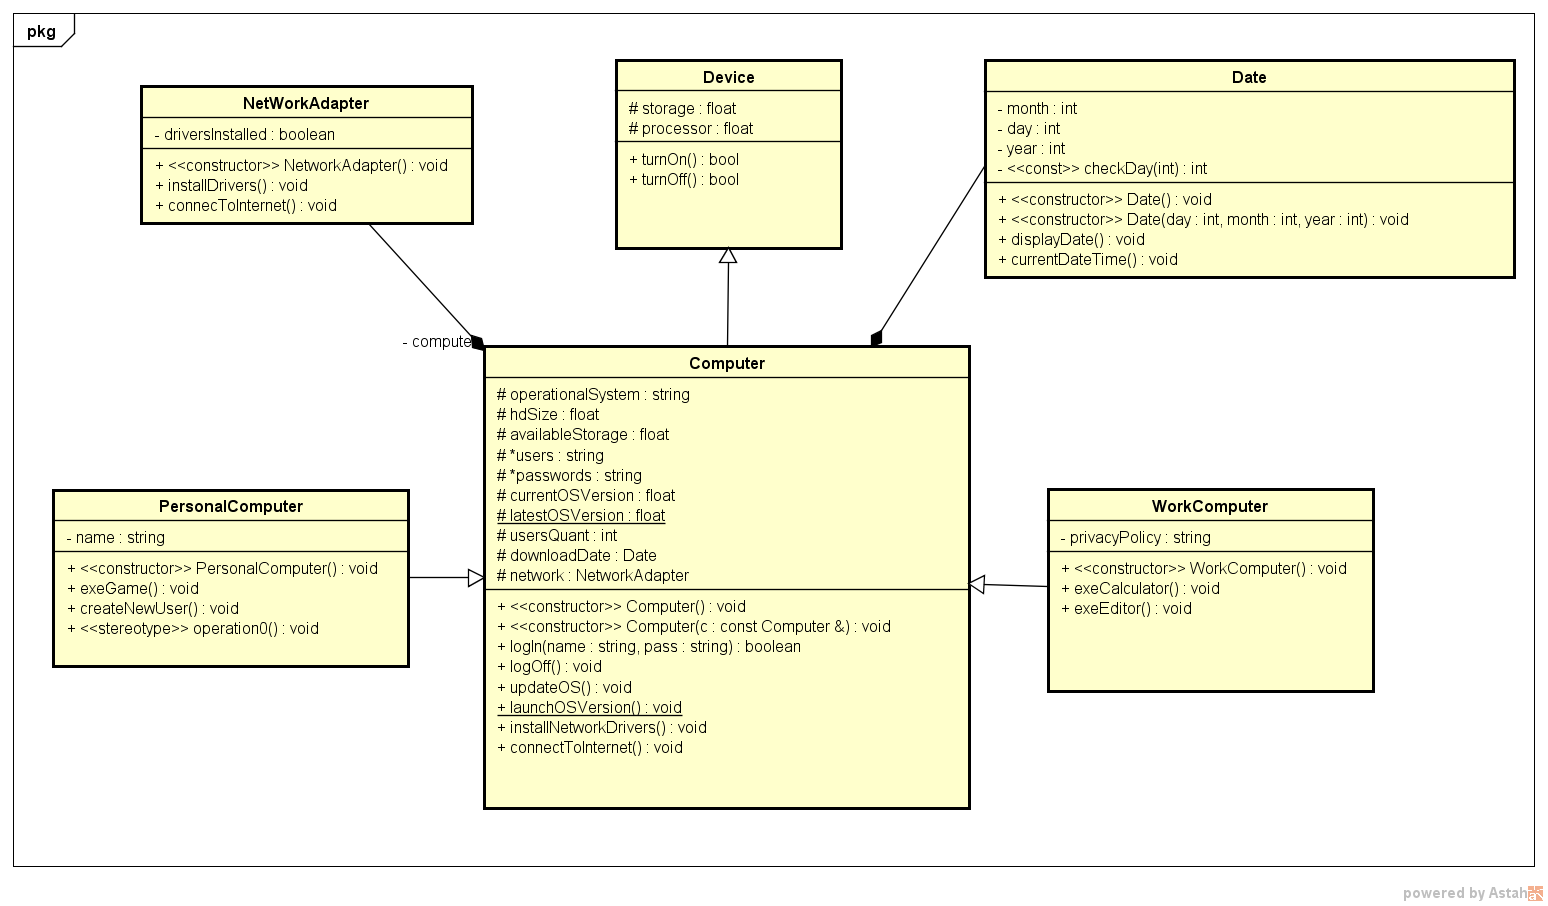
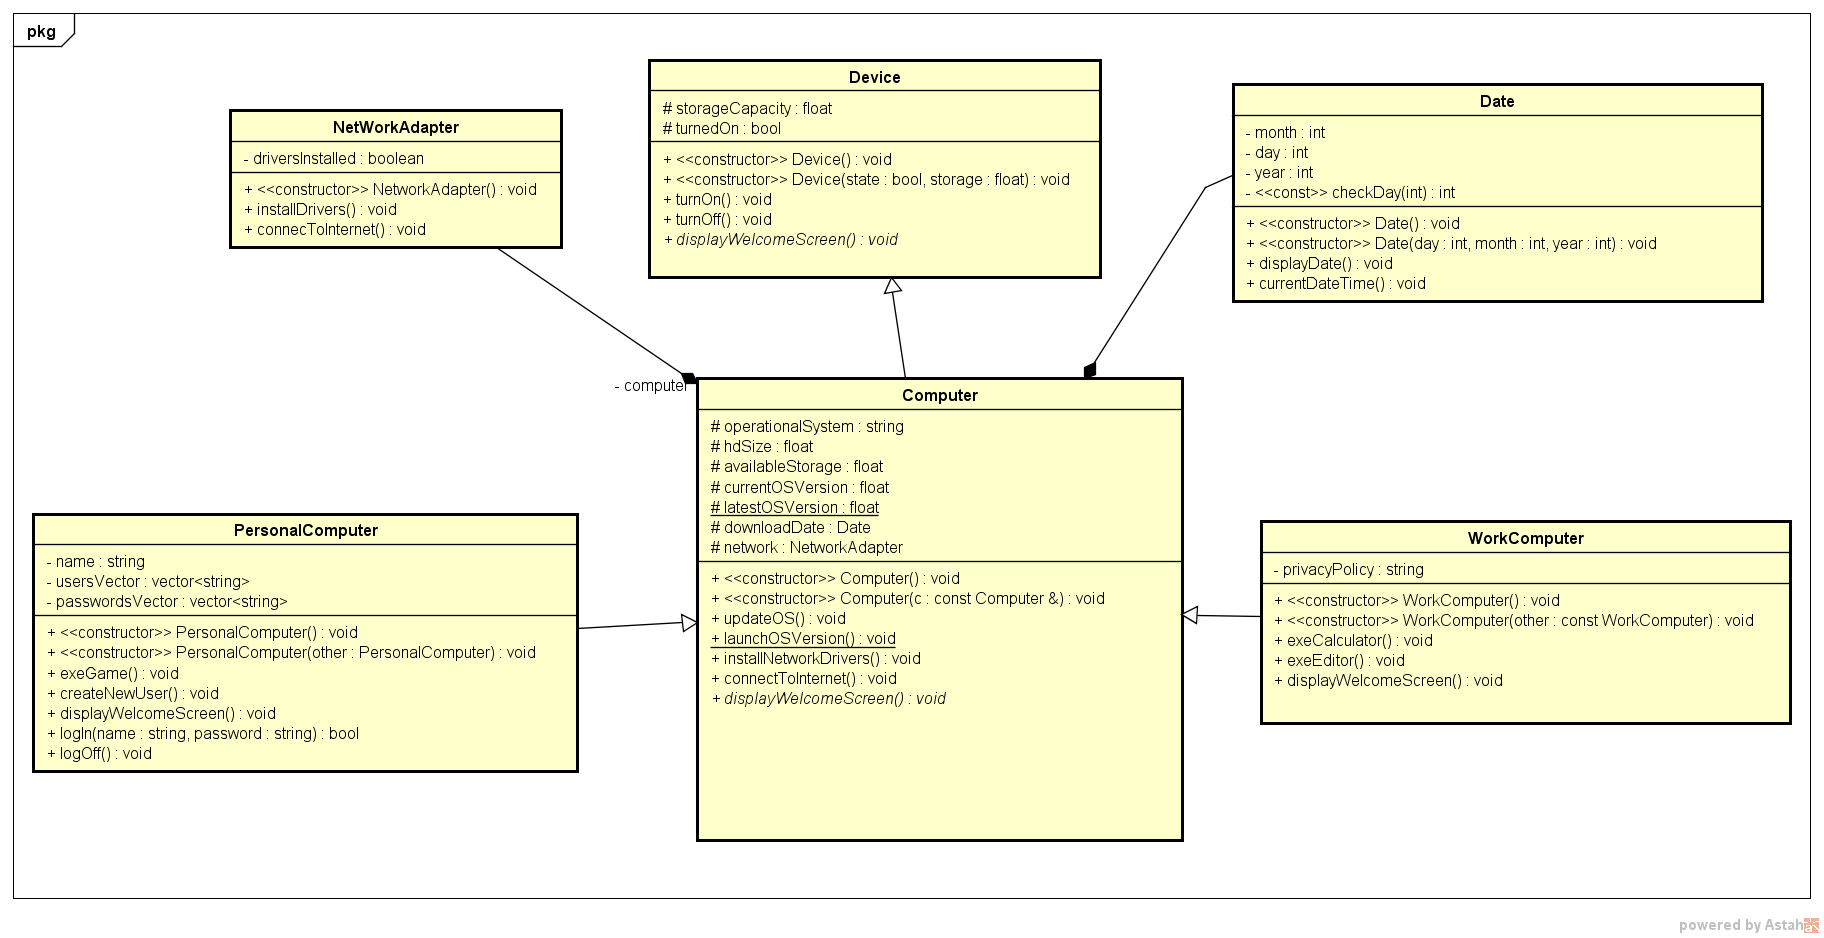
Adicionado dynamic cast

diff --git a/Main.cpp b/Main.cpp
@@ -9,6 +9,7 @@ void deviceComputer();
 
 void optionWorkC();
 void optionPersonalC();
+void option(Computer*);
 
 int main()
 {
@@ -33,21 +34,26 @@ void deviceComputer()
 	cout << "\n 		Choose a computer: \n\n 1 - Work Computer \n 2 - Personal Computer ";
 	cin >> opt;
 	
-	switch(opt)
-	{
-		case 1:
-			optionWorkC();
-			break;
-			
-		case 2:
-			optionPersonalC();
-			break;
-			
-		default:
-			cout << "\n Please enter a valid option. \n";
-	}
+	vector <Computer*> pcs;
+	
+	if (opt == 1) 
+	pcs.push_back(new WorkComputer());
+	else if (opt == 2)
+	pcs.push_back(new PersonalComputer()); 
+	
+	option(pcs.at(0));
 }
 
+void option(Computer  *computer)
+{
+	PersonalComputer *personalComp = dynamic_cast<PersonalComputer *>(computer);
+	WorkComputer *workComp = dynamic_cast<WorkComputer *>(computer);
+	
+	if(personalComp!=0)
+	    optionPersonalC();
+	else
+	    optionWorkC();
+}
 
 void optionWorkC()
 {

diff --git a/Computer.h b/Computer.h
@@ -16,7 +16,7 @@ class Computer : public Device
 		Computer(const Computer &);
 		~Computer();
 		
-		virtual void updatedOS();
+        void updatedOS();
 		static void launchOSVersion();
 	    
 	    void installNetworkDrivers();
